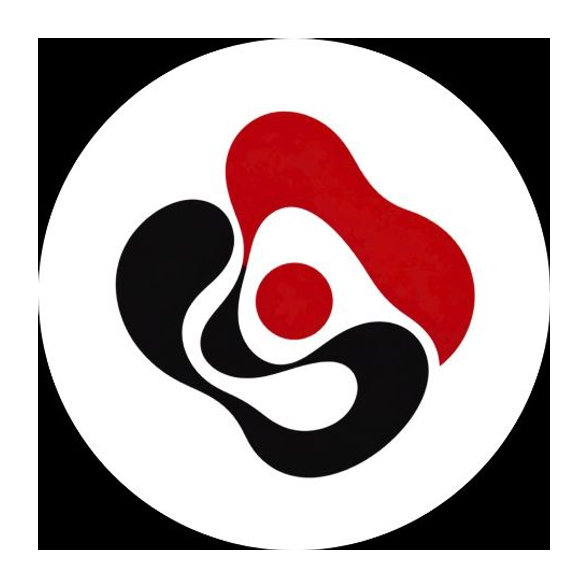
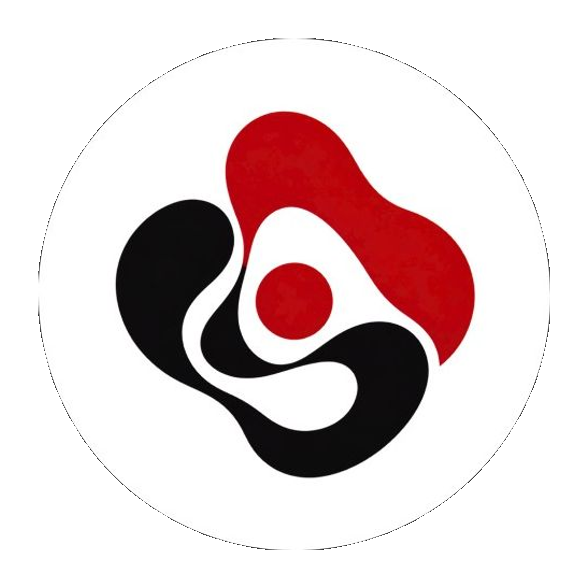
Strip black canvases from brand marks so they sit on the light UI.

diff --git a/app/products/[slug]/page.tsx b/app/products/[slug]/page.tsx
@@ -30,9 +30,7 @@ export default async function ProductPage({
         </Link>
         <div className="relative mt-16 max-w-2xl">
           <p className="kicker">{product.tagline}</p>
-          <div className="logo-surface mt-8 p-6">
-            <ProductLogo product={product} size={160} className="h-36 w-36 sm:h-40 sm:w-40" />
-          </div>
+          <ProductLogo product={product} size={160} className="mt-8 h-36 w-36 sm:h-40 sm:w-40" />
           <h1 className="display mt-8 text-5xl tracking-tight lg:text-7xl">{product.name}</h1>
           <div className="mt-8">
             <Badge tone={product.status === "active" ? "accent" : "neutral"}>

diff --git a/app/globals.css b/app/globals.css
@@ -152,14 +152,6 @@ body {
   background: color-mix(in srgb, var(--foreground) 10%, transparent);
 }
 
-.logo-surface {
-  display: inline-flex;
-  align-items: center;
-  justify-content: center;
-  border-radius: 1.25rem;
-  background: var(--foreground);
-}
-
 .marquee-wrap {
   overflow: hidden;
   mask-image: linear-gradient(90deg, transparent, black 8%, black 92%, transparent);
